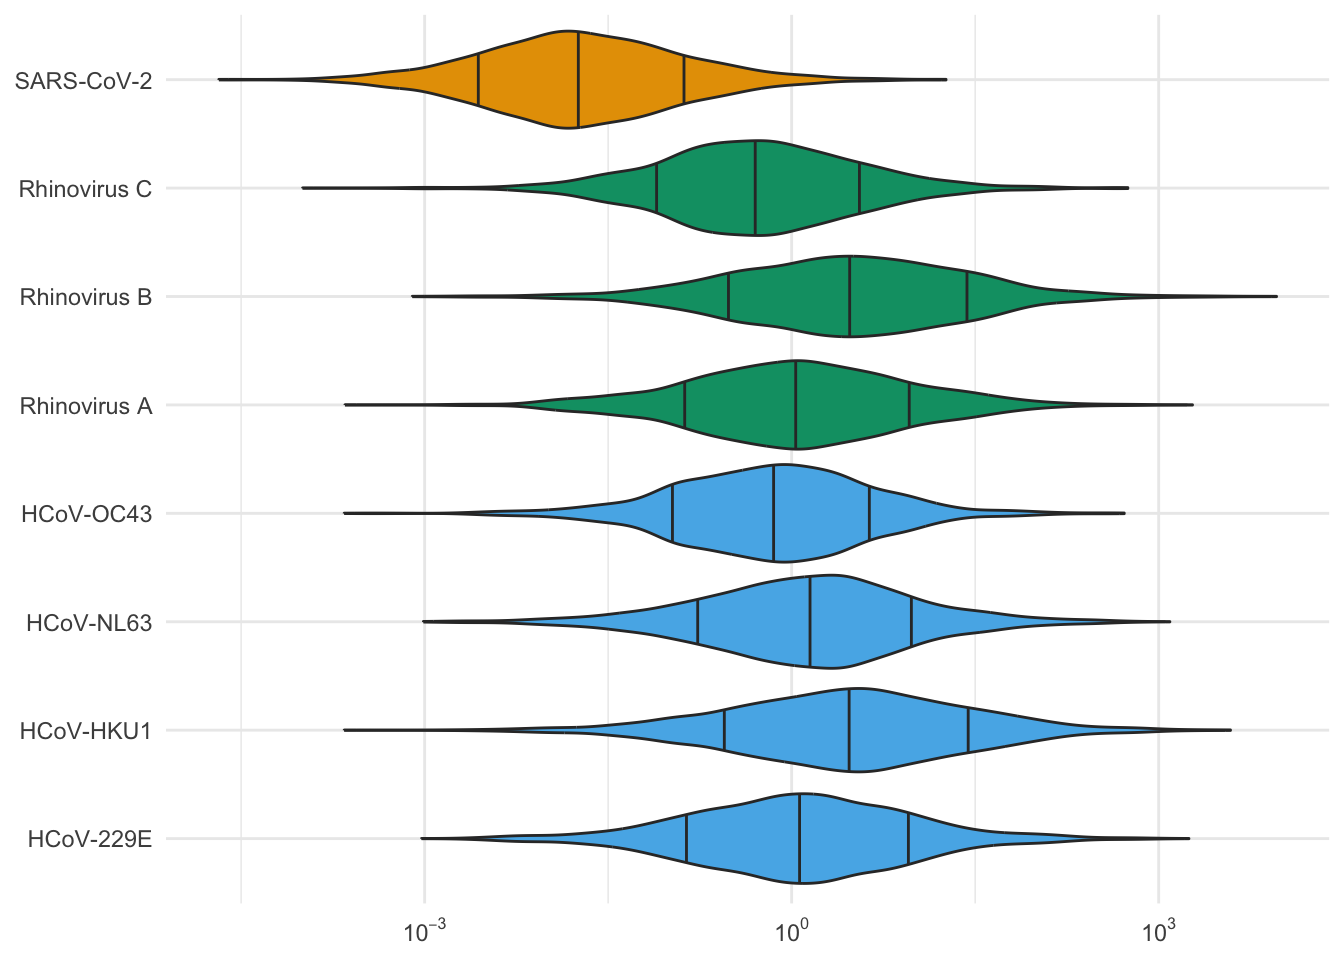
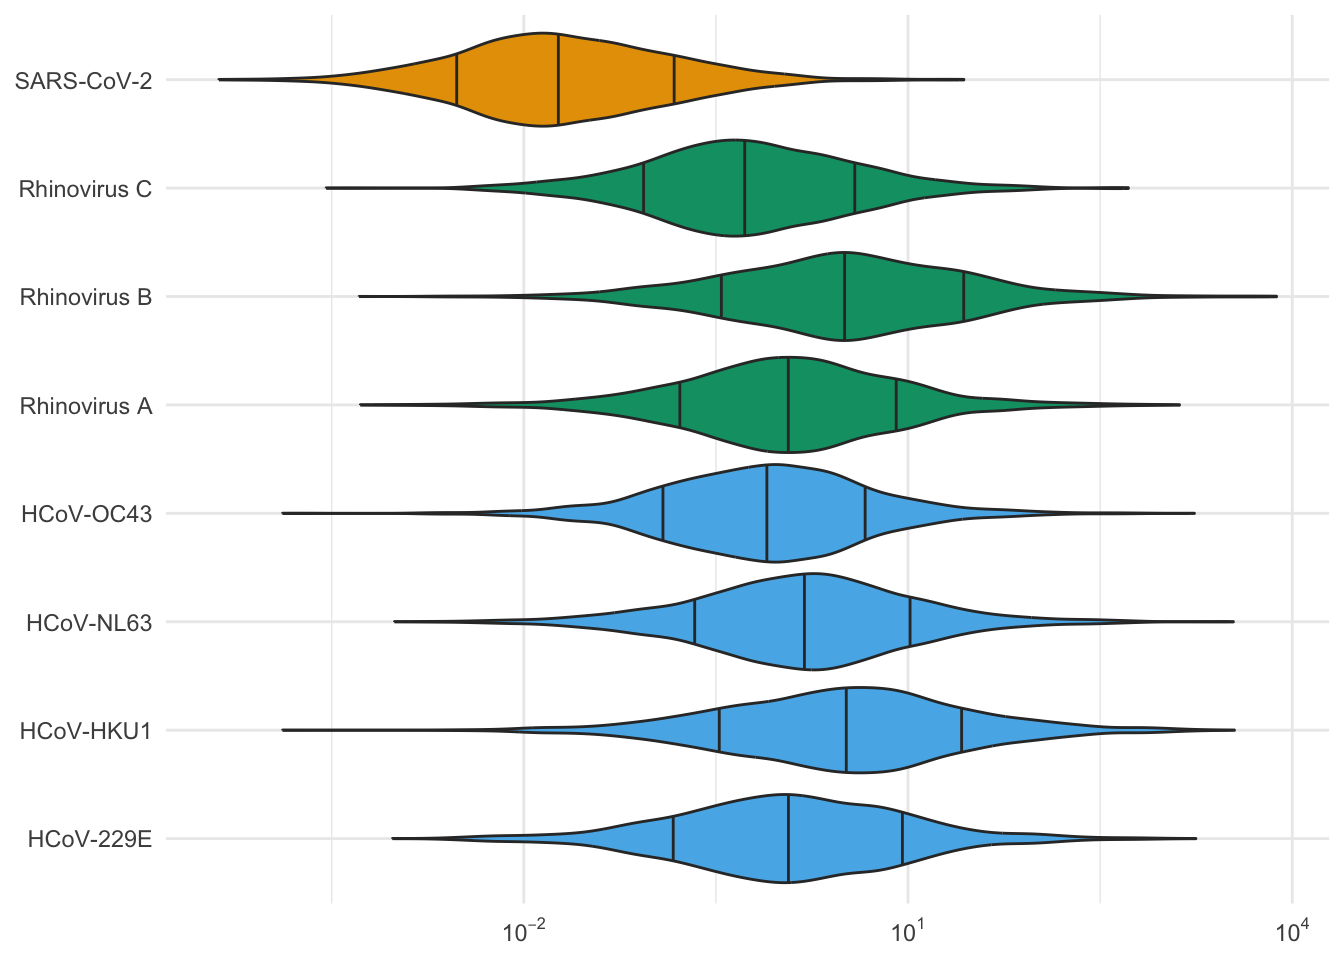
Built site for gh-pages

diff --git a/posts/2025-07-03_swab-ww-comparison/index.html b/posts/2025-07-03_swab-ww-comparison/index.html
@@ -383,26 +383,28 @@ window.Quarto = {
 <span id="cb5-8"><a href="#cb5-8" aria-hidden="true" tabindex="-1"></a>    <span class="co"># Number of swabs from infected people</span></span>
 <span id="cb5-9"><a href="#cb5-9" aria-hidden="true" tabindex="-1"></a>    <span class="at">pos_swabs =</span> <span class="fu">rbinom</span>(<span class="fu">n</span>(), <span class="at">size =</span> swab_pool_size, <span class="at">prob =</span> prevalence),</span>
 <span id="cb5-10"><a href="#cb5-10" aria-hidden="true" tabindex="-1"></a>    <span class="at">mean_swab =</span> (pos_swabs <span class="sc">/</span> swab_pool_size) <span class="sc">*</span> mu_swab <span class="sc">*</span> total_reads_swab <span class="sc">*</span> pr_junction_swab,</span>
-<span id="cb5-11"><a href="#cb5-11" aria-hidden="true" tabindex="-1"></a>    <span class="at">reads_swab =</span> <span class="fu">rnbinom</span>(<span class="fu">n</span>(), <span class="at">size =</span> phi_swab, <span class="at">mu =</span> mean_swab),</span>
-<span id="cb5-12"><a href="#cb5-12" aria-hidden="true" tabindex="-1"></a>    <span class="at">cum_reads_swab =</span> <span class="fu">cumsum</span>(reads_swab),</span>
-<span id="cb5-13"><a href="#cb5-13" aria-hidden="true" tabindex="-1"></a>  ) <span class="sc">%&gt;%</span></span>
-<span id="cb5-14"><a href="#cb5-14" aria-hidden="true" tabindex="-1"></a>  <span class="fu">summarize</span>(</span>
-<span id="cb5-15"><a href="#cb5-15" aria-hidden="true" tabindex="-1"></a>    <span class="at">mu_ww =</span> <span class="fu">first</span>(mu_ww),</span>
-<span id="cb5-16"><a href="#cb5-16" aria-hidden="true" tabindex="-1"></a>    <span class="at">phi_ww =</span> <span class="fu">first</span>(phi_ww),</span>
-<span id="cb5-17"><a href="#cb5-17" aria-hidden="true" tabindex="-1"></a>    <span class="at">mu_swab =</span> <span class="fu">first</span>(mu_swab),</span>
-<span id="cb5-18"><a href="#cb5-18" aria-hidden="true" tabindex="-1"></a>    <span class="at">phi_swab =</span> <span class="fu">first</span>(phi_swab),</span>
-<span id="cb5-19"><a href="#cb5-19" aria-hidden="true" tabindex="-1"></a>    <span class="co"># If undetected, use 100% CI</span></span>
-<span id="cb5-20"><a href="#cb5-20" aria-hidden="true" tabindex="-1"></a>    <span class="at">ci_at_detection_ww =</span> <span class="fu">if_else</span>(</span>
-<span id="cb5-21"><a href="#cb5-21" aria-hidden="true" tabindex="-1"></a>      <span class="fu">any</span>(cum_reads_ww <span class="sc">&gt;</span> detection_threshold),</span>
-<span id="cb5-22"><a href="#cb5-22" aria-hidden="true" tabindex="-1"></a>      cumulative_incidence[<span class="fu">which.max</span>(cum_reads_ww <span class="sc">&gt;=</span> detection_threshold)],</span>
-<span id="cb5-23"><a href="#cb5-23" aria-hidden="true" tabindex="-1"></a>      <span class="fl">1.0</span></span>
-<span id="cb5-24"><a href="#cb5-24" aria-hidden="true" tabindex="-1"></a>    ),</span>
-<span id="cb5-25"><a href="#cb5-25" aria-hidden="true" tabindex="-1"></a>    <span class="at">ci_at_detection_swab =</span> <span class="fu">if_else</span>(</span>
-<span id="cb5-26"><a href="#cb5-26" aria-hidden="true" tabindex="-1"></a>      <span class="fu">any</span>(cum_reads_swab <span class="sc">&gt;</span> detection_threshold),</span>
-<span id="cb5-27"><a href="#cb5-27" aria-hidden="true" tabindex="-1"></a>      cumulative_incidence[<span class="fu">which.max</span>(cum_reads_swab <span class="sc">&gt;=</span> detection_threshold)],</span>
-<span id="cb5-28"><a href="#cb5-28" aria-hidden="true" tabindex="-1"></a>      <span class="fl">1.0</span></span>
-<span id="cb5-29"><a href="#cb5-29" aria-hidden="true" tabindex="-1"></a>    ),</span>
-<span id="cb5-30"><a href="#cb5-30" aria-hidden="true" tabindex="-1"></a>  )</span></code><button title="Copy to Clipboard" class="code-copy-button"><i class="bi"></i></button></pre></div>
+<span id="cb5-11"><a href="#cb5-11" aria-hidden="true" tabindex="-1"></a>    <span class="co"># Use a finite overdispersion when size and mu are both zero</span></span>
+<span id="cb5-12"><a href="#cb5-12" aria-hidden="true" tabindex="-1"></a>    <span class="co"># avoids generating NaNs. Should always give zero.</span></span>
+<span id="cb5-13"><a href="#cb5-13" aria-hidden="true" tabindex="-1"></a>    <span class="at">reads_swab =</span> <span class="fu">rnbinom</span>(<span class="fu">n</span>(), <span class="at">size =</span> <span class="fu">pmax</span>(phi_swab <span class="sc">*</span> pos_swabs, <span class="fl">1e-10</span>), <span class="at">mu =</span> mean_swab),</span>
+<span id="cb5-14"><a href="#cb5-14" aria-hidden="true" tabindex="-1"></a>    <span class="at">cum_reads_swab =</span> <span class="fu">cumsum</span>(reads_swab),</span>
+<span id="cb5-15"><a href="#cb5-15" aria-hidden="true" tabindex="-1"></a>  ) <span class="sc">%&gt;%</span></span>
+<span id="cb5-16"><a href="#cb5-16" aria-hidden="true" tabindex="-1"></a>  <span class="fu">summarize</span>(</span>
+<span id="cb5-17"><a href="#cb5-17" aria-hidden="true" tabindex="-1"></a>    <span class="at">mu_ww =</span> <span class="fu">first</span>(mu_ww),</span>
+<span id="cb5-18"><a href="#cb5-18" aria-hidden="true" tabindex="-1"></a>    <span class="at">phi_ww =</span> <span class="fu">first</span>(phi_ww),</span>
+<span id="cb5-19"><a href="#cb5-19" aria-hidden="true" tabindex="-1"></a>    <span class="at">mu_swab =</span> <span class="fu">first</span>(mu_swab),</span>
+<span id="cb5-20"><a href="#cb5-20" aria-hidden="true" tabindex="-1"></a>    <span class="at">phi_swab =</span> <span class="fu">first</span>(phi_swab),</span>
+<span id="cb5-21"><a href="#cb5-21" aria-hidden="true" tabindex="-1"></a>    <span class="co"># If undetected, use 100% CI</span></span>
+<span id="cb5-22"><a href="#cb5-22" aria-hidden="true" tabindex="-1"></a>    <span class="at">ci_at_detection_ww =</span> <span class="fu">if_else</span>(</span>
+<span id="cb5-23"><a href="#cb5-23" aria-hidden="true" tabindex="-1"></a>      <span class="fu">any</span>(cum_reads_ww <span class="sc">&gt;</span> detection_threshold),</span>
+<span id="cb5-24"><a href="#cb5-24" aria-hidden="true" tabindex="-1"></a>      cumulative_incidence[<span class="fu">which.max</span>(cum_reads_ww <span class="sc">&gt;=</span> detection_threshold)],</span>
+<span id="cb5-25"><a href="#cb5-25" aria-hidden="true" tabindex="-1"></a>      <span class="fl">1.0</span></span>
+<span id="cb5-26"><a href="#cb5-26" aria-hidden="true" tabindex="-1"></a>    ),</span>
+<span id="cb5-27"><a href="#cb5-27" aria-hidden="true" tabindex="-1"></a>    <span class="at">ci_at_detection_swab =</span> <span class="fu">if_else</span>(</span>
+<span id="cb5-28"><a href="#cb5-28" aria-hidden="true" tabindex="-1"></a>      <span class="fu">any</span>(cum_reads_swab <span class="sc">&gt;</span> detection_threshold),</span>
+<span id="cb5-29"><a href="#cb5-29" aria-hidden="true" tabindex="-1"></a>      cumulative_incidence[<span class="fu">which.max</span>(cum_reads_swab <span class="sc">&gt;=</span> detection_threshold)],</span>
+<span id="cb5-30"><a href="#cb5-30" aria-hidden="true" tabindex="-1"></a>      <span class="fl">1.0</span></span>
+<span id="cb5-31"><a href="#cb5-31" aria-hidden="true" tabindex="-1"></a>    ),</span>
+<span id="cb5-32"><a href="#cb5-32" aria-hidden="true" tabindex="-1"></a>  )</span></code><button title="Copy to Clipboard" class="code-copy-button"><i class="bi"></i></button></pre></div>
 </div>
 <p>In a small number of replicates, a method does not detect the virus by the end of the simulations. In these cases, the cumulative incidence at detection is between 50% and 100%, and we record it as 100%. We can confirm that this is rare (counts out of 2000 replicates per virus):</p>
 <div class="cell">
@@ -430,37 +432,37 @@ window.Quarto = {
 </tr>
 <tr class="even">
 <td style="text-align: left;">HCoV-HKU1</td>
-<td style="text-align: right;">5</td>
+<td style="text-align: right;">0</td>
 <td style="text-align: right;">9</td>
 </tr>
 <tr class="odd">
 <td style="text-align: left;">HCoV-NL63</td>
-<td style="text-align: right;">6</td>
+<td style="text-align: right;">0</td>
 <td style="text-align: right;">1</td>
 </tr>
 <tr class="even">
 <td style="text-align: left;">HCoV-OC43</td>
-<td style="text-align: right;">2</td>
+<td style="text-align: right;">0</td>
 <td style="text-align: right;">0</td>
 </tr>
 <tr class="odd">
 <td style="text-align: left;">Rhinovirus A</td>
-<td style="text-align: right;">9</td>
+<td style="text-align: right;">0</td>
 <td style="text-align: right;">2</td>
 </tr>
 <tr class="even">
 <td style="text-align: left;">Rhinovirus B</td>
-<td style="text-align: right;">3</td>
+<td style="text-align: right;">0</td>
 <td style="text-align: right;">7</td>
 </tr>
 <tr class="odd">
 <td style="text-align: left;">Rhinovirus C</td>
-<td style="text-align: right;">1</td>
+<td style="text-align: right;">0</td>
 <td style="text-align: right;">0</td>
 </tr>
 <tr class="even">
 <td style="text-align: left;">SARS-CoV-2</td>
-<td style="text-align: right;">5</td>
+<td style="text-align: right;">0</td>
 <td style="text-align: right;">0</td>
 </tr>
 </tbody>
@@ -517,10 +519,10 @@ HCoV-229E
 0.000723
 </td>
 <td style="text-align:right;width: 3cm; font-family: monospace;">
-0.000628
+0.000615
 </td>
 <td style="text-align:right;width: 3cm; font-family: monospace;">
-1.150
+1.175
 </td>
 </tr>
 <tr>
@@ -531,10 +533,10 @@ HCoV-HKU1
 0.004282
 </td>
 <td style="text-align:right;width: 3cm; font-family: monospace;">
-0.001516
+0.001364
 </td>
 <td style="text-align:right;width: 3cm; font-family: monospace;">
-2.824
+3.140
 </td>
 </tr>
 <tr>
@@ -545,10 +547,10 @@ HCoV-NL63
 0.003247
 </td>
 <td style="text-align:right;width: 3cm; font-family: monospace;">
-0.002431
+0.002126
 </td>
 <td style="text-align:right;width: 3cm; font-family: monospace;">
-1.336
+1.527
 </td>
 </tr>
 <tr>
@@ -559,10 +561,10 @@ HCoV-OC43
 0.001137
 </td>
 <td style="text-align:right;width: 3cm; font-family: monospace;">
-0.001654
+0.001453
 </td>
 <td style="text-align:right;width: 3cm; font-family: monospace;">
-0.688
+0.782
 </td>
 </tr>
 <tr>
@@ -573,10 +575,10 @@ Rhinovirus A
 0.004315
 </td>
 <td style="text-align:right;width: 3cm; font-family: monospace;">
-0.003939
+0.003714
 </td>
 <td style="text-align:right;width: 3cm; font-family: monospace;">
-1.096
+1.162
 </td>
 </tr>
 <tr>
@@ -587,10 +589,10 @@ Rhinovirus B
 0.005166
 </td>
 <td style="text-align:right;width: 3cm; font-family: monospace;">
-0.001764
+0.001626
 </td>
 <td style="text-align:right;width: 3cm; font-family: monospace;">
-2.930
+3.177
 </td>
 </tr>
 <tr>
@@ -601,10 +603,10 @@ Rhinovirus C
 0.000721
 </td>
 <td style="text-align:right;width: 3cm; font-family: monospace;">
-0.001370
+0.001275
 </td>
 <td style="text-align:right;width: 3cm; font-family: monospace;">
-0.526
+0.565
 </td>
 </tr>
 <tr>
@@ -615,10 +617,10 @@ SARS-CoV-2
 0.000018
 </td>
 <td style="text-align:right;width: 3cm; font-family: monospace;">
-0.000966
+0.000896
 </td>
 <td style="text-align:right;width: 3cm; font-family: monospace;">
-0.019
+0.021
 </td>
 </tr>
 </tbody>
